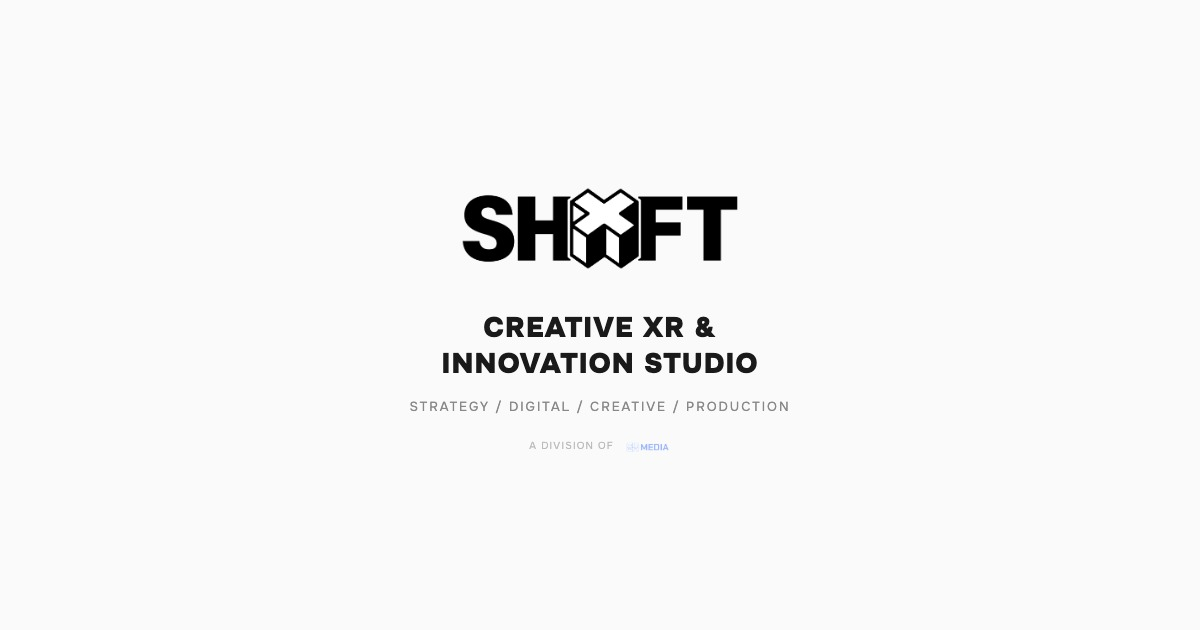
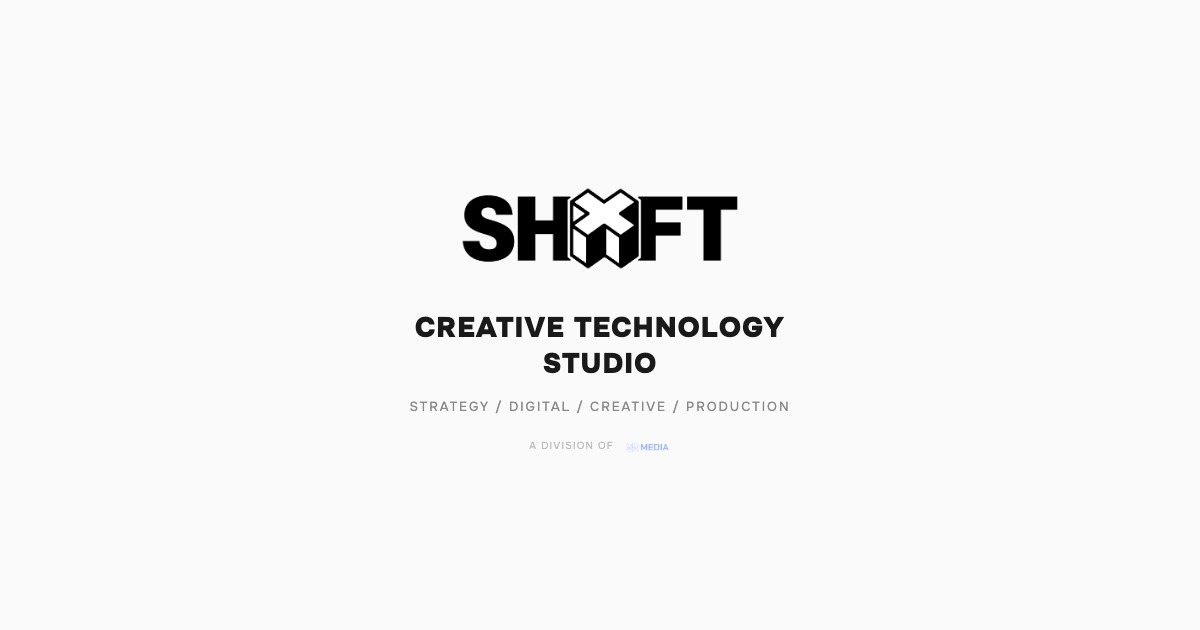
Reposition: Creative XR & Innovation → Creative Technology Studio
Title, OG/twitter meta, the studio slide, and the regenerated OG image.

Changed region(s): [[0.3392, 0.4825, 0.6475, 0.6032]]

diff --git a/index.html b/index.html
@@ -5,16 +5,16 @@
     <link rel="icon" type="image/png" href="SHXFT_Favicon.png">
     <link rel="apple-touch-icon" href="SHXFT_Favicon.png">
     <meta name="viewport" content="width=device-width, initial-scale=1.0">
-    <title>SHXFT · Creative XR & Innovation Studio</title>
-    <meta name="description" content="SHXFT Studio. Strategy, digital experiences, creative production, and immersive technology. AR, CGI, interactive displays, and web/app development for the world's biggest brands.">
+    <title>SHXFT · Creative Technology Studio in Dubai</title>
+    <meta name="description" content="SHXFT Studio is a creative technology studio in Dubai. We build AR, immersive web and interactive products — FRXME, Genie, SCXPE — for the world's biggest brands across the GCC and MENA.">
     <meta property="og:type" content="website">
-    <meta property="og:title" content="SHXFT Studio. Creative XR and Innovation.">
-    <meta property="og:description" content="Strategy, digital experiences, creative production, and immersive technology. AR, CGI, interactive displays, and web/app development for the world's biggest brands.">
+    <meta property="og:title" content="SHXFT Studio — Creative Technology Studio in Dubai">
+    <meta property="og:description" content="A creative technology studio in Dubai building AR, immersive web and interactive products for the world's biggest brands across the GCC and MENA.">
     <meta property="og:url" content="https://intro.shxft.studio">
     <meta property="og:image" content="https://intro.shxft.studio/og-image.jpg">
     <meta name="twitter:card" content="summary_large_image">
-    <meta name="twitter:title" content="SHXFT Studio. Creative XR and Innovation.">
-    <meta name="twitter:description" content="Strategy, digital experiences, creative production, and immersive technology.">
+    <meta name="twitter:title" content="SHXFT Studio — Creative Technology Studio in Dubai">
+    <meta name="twitter:description" content="A creative technology studio in Dubai building AR, immersive web and interactive products for the world's biggest brands.">
     <meta name="twitter:image" content="https://intro.shxft.studio/og-image.jpg">
     <link rel="preconnect" href="https://fonts.googleapis.com">
     <link rel="preconnect" href="https://fonts.gstatic.com" crossorigin>
@@ -1738,7 +1738,7 @@
         <div class="slide-content" style="align-items: center; text-align: center;">
             <img src="shxft-wordmark-black.png" alt="SHXFT" class="reveal-scale" style="width: clamp(200px, 40vw, 450px); margin-bottom: clamp(0.5rem, 1.5vw, 1rem);">
             <h2 class="reveal" style="font-weight: 600; text-transform: none; font-size: clamp(1rem, 2.5vw, 1.6rem); letter-spacing: 0.05em;">
-                Creative XR & Innovation Studio
+                Creative Technology Studio
             </h2>
             <div class="reveal" style="display: flex; align-items: center; justify-content: center; gap: 0.5em; margin-top: 0.5rem;">
                 <span style="font-family: var(--font-mono); font-size: clamp(0.55rem, 0.9vw, 0.7rem); color: var(--text-muted); letter-spacing: 0.2em; text-transform: uppercase;">A Division of</span>

diff --git a/og-capture.html b/og-capture.html
@@ -33,7 +33,7 @@
 </style>
 </head><body>
   <img src="shxft-wordmark-black.png" class="wordmark" alt="SHXFT">
-  <h1>Creative XR &<br>Innovation Studio</h1>
+  <h1>Creative Technology<br>Studio</h1>
   <div class="sub">Strategy / Digital / Creative / Production</div>
   <div class="division">A Division of <img src="CNQR CONT BANNER.png" alt="CNQR Media"></div>
 </body></html>
